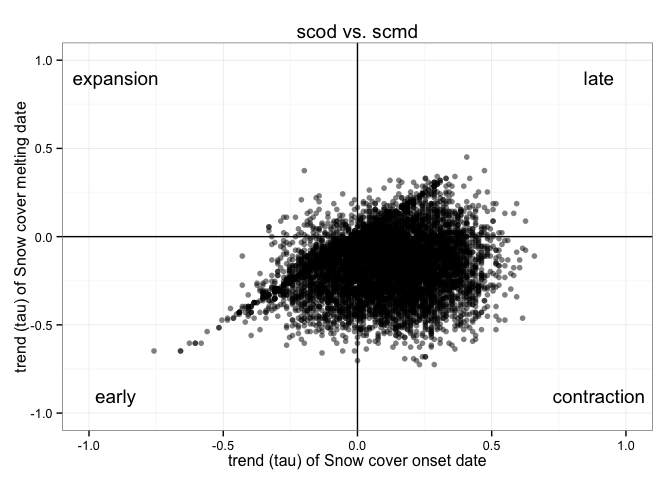
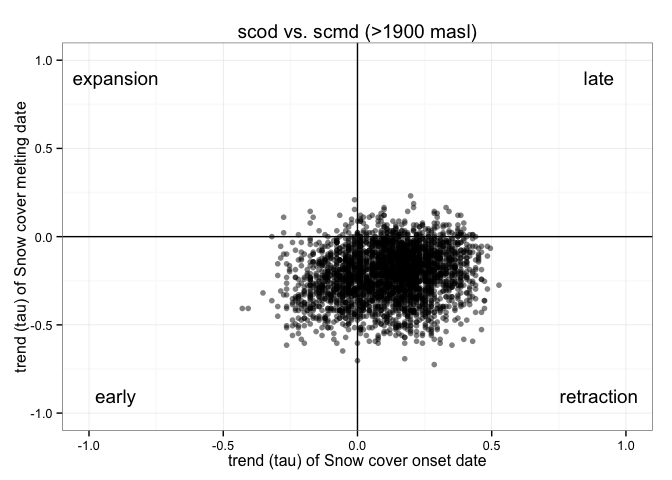
add text about scod-scmd relationship

diff --git a/analysis/explore_relationships.md b/analysis/explore_relationships.md
@@ -43,48 +43,14 @@ By exploring the relationship between the trend of two indicators of snow cover 
 
 We applied this exploratory analysis for all pixels and for all pixels above 1900 *m asl*.
 
-``` r
-# Exploratory for all pixels 
-ggplot(fulldf, aes(x=tau_scod, y=tau_scmd)) + 
-  geom_point(alpha=0.5) + 
-  xlim(-1,1) + ylim(-1,1) + 
-  geom_vline(xintercept=0) +
-  geom_hline(yintercept=0) + 
-  annotate('text', label='early',  x=-.9, y=-.9) + 
-  annotate('text', label='late', x=.9, y=.9)+
-  annotate('text', label='contraction', x=.9, y=-.9)+
-  annotate('text', label='expansion', x=-.9, y=.9) + 
-  theme_bw() + 
-  labs(title= 'scod vs. scmd',
-    x= 'trend (tau) of Snow cover onset date',
-    y='trend (tau) of Snow cover melting date') 
-```
-
 <img src="explore_relationships_files/figure-markdown_github/unnamed-chunk-1-1.png" alt="Figure 2"  />
 <p class="caption">
 Figure 2
 </p>
 
-``` r
-# Exploratory for pixels >1900
-ggplot(fulldf1900, aes(x=tau_scod, y=tau_scmd)) + 
-  geom_point(alpha=0.5) + 
-  xlim(-1,1) + ylim(-1,1) + 
-  geom_vline(xintercept=0) +
-  geom_hline(yintercept=0) + 
-  annotate('text', label='early',  x=-.9, y=-.9) + 
-  annotate('text', label='late', x=.9, y=.9)+
-  annotate('text', label='retraction', x=.9, y=-.9)+
-  annotate('text', label='expansion', x=-.9, y=.9) + 
-  theme_bw() + 
-  labs(title= 'scod vs. scmd (>1900 masl)',
-    x= 'trend (tau) of Snow cover onset date',
-    y='trend (tau) of Snow cover melting date') 
-```
-
-<img src="explore_relationships_files/figure-markdown_github/unnamed-chunk-1-2.png" alt="Figure 2"  />
+<img src="explore_relationships_files/figure-markdown_github/unnamed-chunk-2-1.png" alt="Figure 3"  />
 <p class="caption">
-Figure 2
+Figure 3
 </p>
 
-A total of 70.3114645 pixels (of all above 1900) showed a positive trend in snow cover onset date (late onset) and a negative trend in snow cover melting date (earlier melting date).
+A total of 70.31 % of pixels (of all above 1900) showed a positive trend in snow cover onset date (late onset) and a negative trend in snow cover melting date (earlier melting date). It means that of 70.31 % of the pixels above 1900 m, have suffered a trend to rectraction of the snow cover period in the last years (Figure 3).
